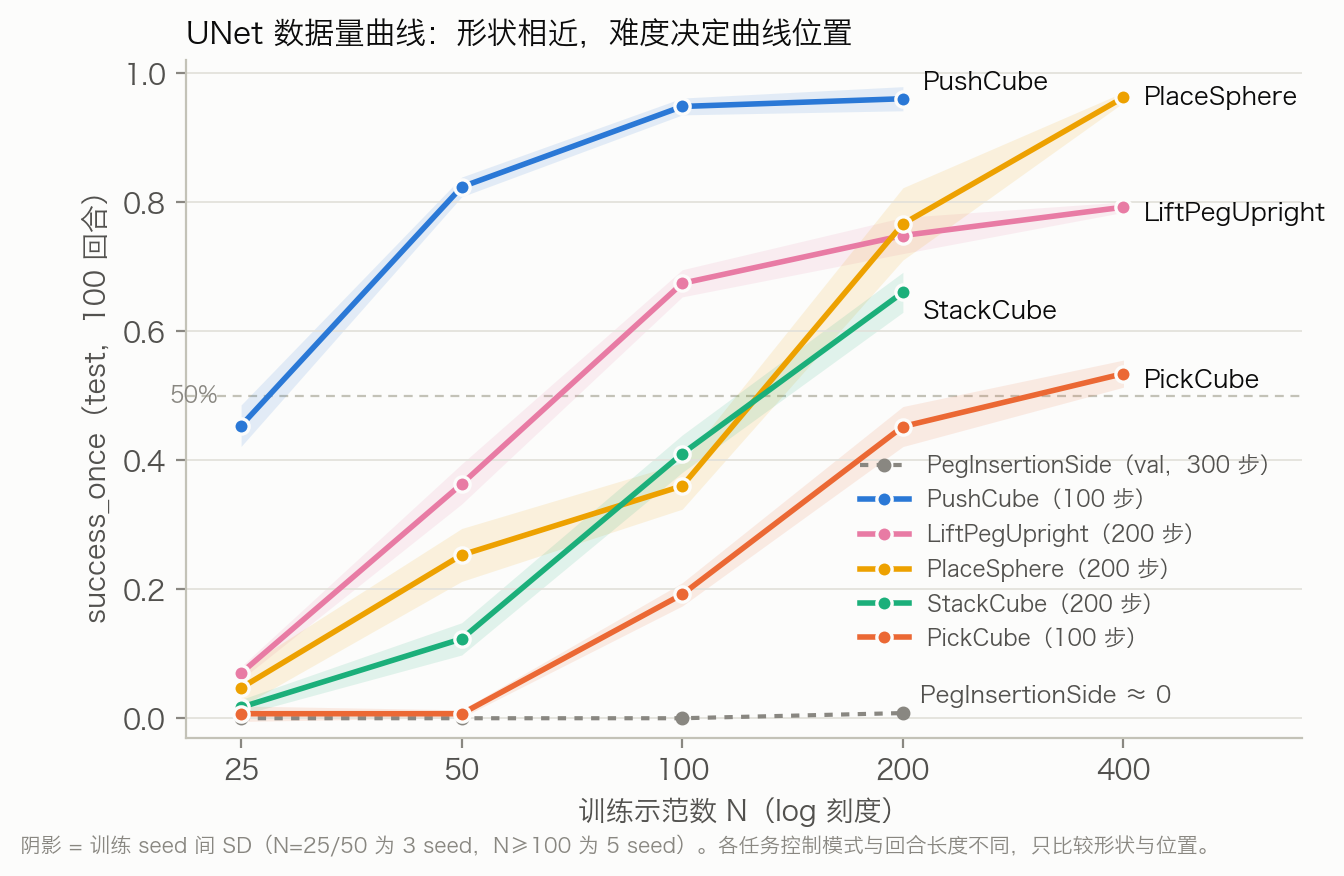
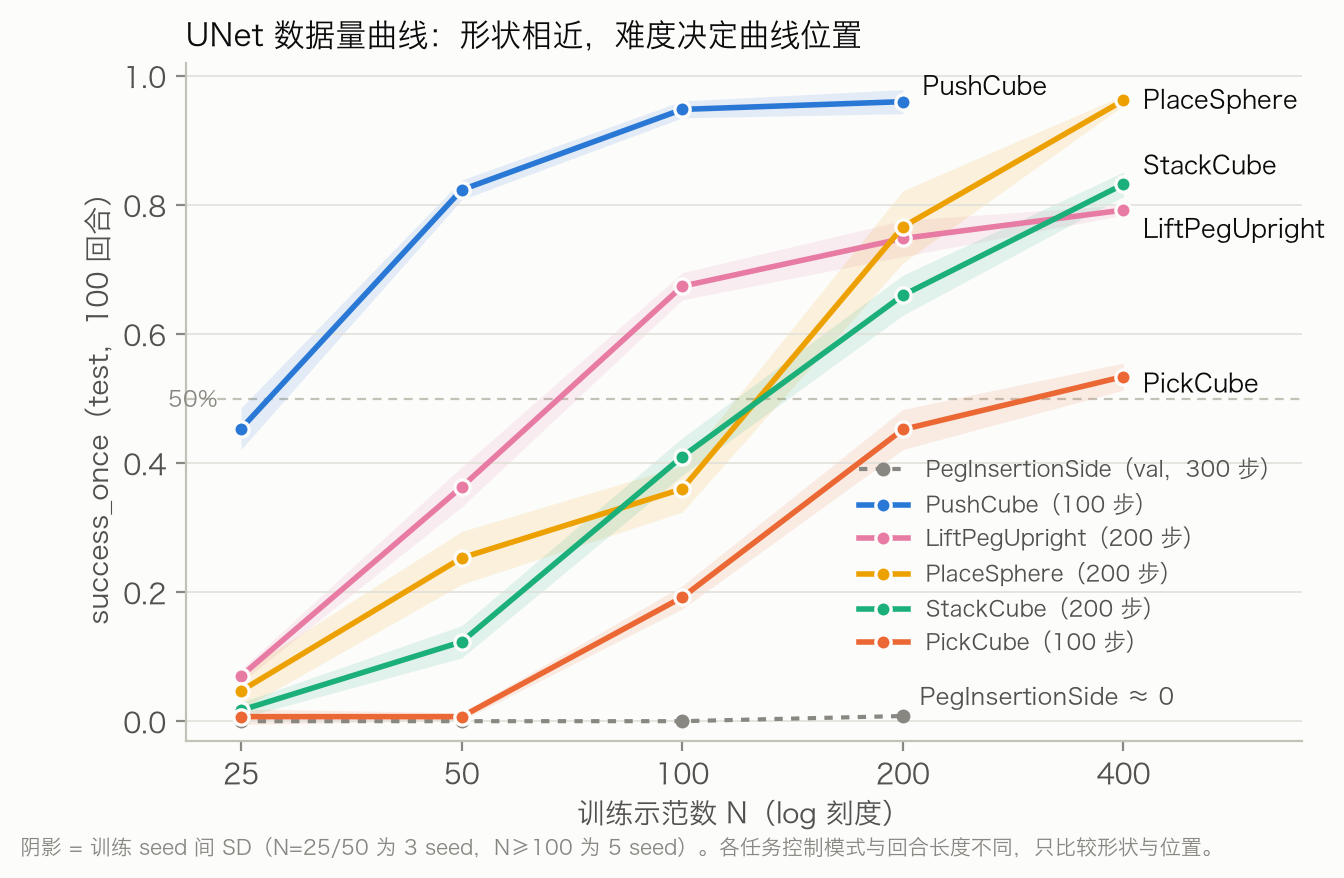
docs(results): add StackCube N=400 to the cross-task summary
StackCube's N=400 run (report_stackcube_scaling.md v2) reaches
0.832 ± 0.019; 200→400 is +0.172 [+0.108, +0.236], still significant.
Update the data-size table, the shape discussion and the figure.

diff --git a/scripts/plot_cross_task.py b/scripts/plot_cross_task.py
@@ -79,7 +79,8 @@ DATA_SIZE = {
     },
     "LiftPegUpright": {25: (0.070, 0.010), 50: (0.363, 0.031), 100: (0.674, 0.021),
                        200: (0.748, 0.028), 400: (0.792, 0.008)},
-    "StackCube": {25: (0.017, 0.012), 50: (0.123, 0.025), 100: (0.410, 0.029), 200: (0.660, 0.031)},
+    "StackCube": {25: (0.017, 0.012), 50: (0.123, 0.025), 100: (0.410, 0.029), 200: (0.660, 0.031),
+                  400: (0.832, 0.019)},
     "PlaceSphere": {25: (0.047, 0.029), 50: (0.253, 0.041), 100: (0.360, 0.036), 200: (0.766, 0.056),
                     400: (0.962, 0.008)},
     "PickCube": {25: (0.007, 0.012), 50: (0.007, 0.006), 100: (0.192, 0.018),
@@ -164,7 +165,7 @@ def fig_datasize(out: Path):
 
     # Direct labels at line ends, nudged apart where they would collide.
     ends = {t: (max(DATA_SIZE[t]), DATA_SIZE[t][max(DATA_SIZE[t])][0]) for t in DATA_SIZE}
-    nudge = {"PushCube": 0.025, "StackCube": -0.03, "PlaceSphere": 0.0, "LiftPegUpright": -0.01, "PickCube": -0.01}
+    nudge = {"PushCube": 0.025, "StackCube": 0.03, "PlaceSphere": 0.0, "LiftPegUpright": -0.03, "PickCube": -0.01}
     for t, (n, p) in ends.items():
         ax.annotate(t, (n, p + nudge[t]), xytext=(7, 0), textcoords="offset points",
                     color=INK, fontsize=9, va="center")

diff --git a/docs/results-summary.zh-CN.md b/docs/results-summary.zh-CN.md
@@ -1,6 +1,6 @@
 # 全组结果汇总（预处理稿）
 
-更新：2026-10-05。来源：`results/task1.md`、`task2_data.md`、`task2_backbone.md`、`task3.md`、`task6.md`、`task6_backbone`（组员报告），
+更新：2026-10-07（StackCube N=400 取自 7606C `report/report_stackcube_scaling.md` v2）。来源：`results/task1.md`、`task2_data.md`、`task2_backbone.md`、`task3.md`、`task6.md`、`task6_backbone`（组员报告），
 Task 5 取自本地 [experiment-progress](experiment-progress.zh-CN.md) §6、§9、§10、§12–§15 和 `results/takeover-correction/decision.json`。
 共同口径：RGB Diffusion Policy，100k optimizer steps，`final.pt`，测试种子 10000–10099（100 回合），
 主指标 `success_once`，表中为 seed 间均值 ± SD。
@@ -10,7 +10,7 @@ Task 5 取自本地 [experiment-progress](experiment-progress.zh-CN.md) §6、§
 | 编号 | 原计划任务 | 实际任务 | 控制 / 动作维 | 评估步数 | 数据量（轨道 A） | 主干（轨道 B） | 拓展 |
 | --- | --- | --- | --- | ---: | --- | --- | --- |
 | Task 1 | PickCube | PickCube | ee_delta_pos / 4 | 100 | ✅ 25–400 | ✅ | — |
-| Task 2 | StackCube | StackCube | ee_delta_pos / 4 | 200 | ✅ 25–200（400 未跑） | ✅ | — |
+| Task 2 | StackCube | StackCube | ee_delta_pos / 4 | 200 | ✅ 25–400 | ✅ | — |
 | Task 3 | PushCube | PushCube（推断，报告未写任务名） | ee_delta_pos / 4 | 100 | ✅ 25–200（400 按规则不触发） | ✅ | — |
 | Task 4 | PullCube | — | — | — | ❌ 无报告 | ❌ | — |
 | Task 5 | PegInsertionSide | PegInsertionSide → **PlaceSphere** | joint_pos / 8 → ee_delta_pos / 4 | 300 → 200 | Peg ≈0（负结果）；PlaceSphere ✅ 25–400 | Peg ≈0；PlaceSphere 未做 | ✅ failure-aware + 专家接管纠正（PlaceSphere） |
@@ -21,7 +21,7 @@ Task 5 取自本地 [experiment-progress](experiment-progress.zh-CN.md) §6、§
 | 任务 | N=25 | N=50 | N=100 | N=200 | N=400 | 100→200 是否显著 |
 | --- | --- | --- | --- | --- | --- | --- |
 | PickCube | 0.007 ± 0.012 | 0.007 ± 0.006 | 0.192 ± 0.018 | 0.452 ± 0.031 | 0.534 ± 0.021 | 是，+0.260 [+0.198, +0.322] |
-| StackCube | 0.017 ± 0.012 | 0.123 ± 0.025 | 0.410 ± 0.029 | 0.660 ± 0.031 | 未跑 | 是，+0.250 [+0.182, +0.318] |
+| StackCube | 0.017 ± 0.012 | 0.123 ± 0.025 | 0.410 ± 0.029 | 0.660 ± 0.031 | 0.832 ± 0.019 | 是，+0.250 [+0.182, +0.318] |
 | PushCube | 0.45 | 0.82 | 0.95 | 0.96 | 不触发 | 否，+0.012 [−0.014, +0.038] |
 | PlaceSphere | 0.047 ± 0.029 | 0.253 ± 0.041 | 0.360 ± 0.036 | 0.766 ± 0.056 | 0.962 ± 0.008 | 未计算（点估计 +0.406） |
 | LiftPegUpright | 0.070 ± 0.010 | 0.363 ± 0.031 | 0.674 ± 0.021 | 0.748 ± 0.028 | 0.792 ± 0.008 | 未报告 |
@@ -30,7 +30,7 @@ Task 5 取自本地 [experiment-progress](experiment-progress.zh-CN.md) §6、§
 N=25/50 为 3 个训练 seed，N≥100 为 5 个。PegInsertionSide 这一行用的是 val 50 回合，与其他行口径不同。
 
 形状上分三类：PushCube 在 100 条饱和；PickCube、LiftPegUpright、PlaceSphere 到 400 条仍在涨但收益递减（PlaceSphere 400 条时 0.962，接近饱和）；
-StackCube 到 200 条仍然陡升，按预注册规则（100→200 区间不含 0 就加 400）本应补 N=400，目前是唯一没补的。
+StackCube 按预注册规则（100→200 区间不含 0 就加 400）补跑了 N=400：0.832，200→400 为 +0.172 [+0.108, +0.236]，是这条曲线上增益第一次变小的一次翻倍，但仍显著，尚未饱和。
 
 ## 3. 主干对比（N=100，`success_once`）
 
@@ -79,7 +79,7 @@ C−B **+13.8pp** [+9.3, +18.3]，C−D **+14.3pp** [+9.5, +19.0]，D−B −0.5
    - **评估步数不统一**：数据量评估用 200 步，主干评估用 400 步，checkpoint 里记录的是 50 步。训练示范长度 153–702 步（中位 169），200 步会截掉一部分长回合，400 步也盖不住最长的 702 步。建议全部统一重评为 400 步（只需评估，不用重训，每个 run 约 3–4 GPU-min）。
    - 数据量部分缺每个 seed 的数值、各 N 的 `success_at_end`（只有 N=400 的 0.784）、相邻档 bootstrap、val loss 数值、算力和 Gate B。
    - 主干部分需要确认测试种子是不是 10000–10099（报告只写了「checkpoint 配置中的 test seed 序列」），以及运行时代码是 dirty 状态时具体改了什么。
-4. **Task 2 StackCube**：主干报告缺参数量、训练和推理耗时，统计检验用的是 z 检验，没有用两层 bootstrap。数据量报告里还有若干【待补】，比如示范来源和 batch/lr（这两项其实全组统一，可以直接引用 Task 1 / Task 3 的设置）。N=400 已满足触发条件但没跑。
+4. **Task 2 StackCube**：主干报告缺参数量、训练和推理耗时，统计检验用的是 z 检验，没有用两层 bootstrap。数据量报告里还有若干【待补】，比如示范来源和 batch/lr（这两项其实全组统一，可以直接引用 Task 1 / Task 3 的设置）。N=400 已在报告 v2 中补齐（0.832 ± 0.019，5 个 seed）。
 5. **Task 5 PlaceSphere 数据量**：缺 `success_at_end`、相邻档 bootstrap 和 val loss；没有做主干对比。N=400 已补（0.962）。
 
 **口径不一致（汇总前要统一）**
@@ -133,12 +133,12 @@ PushCube 0.95 > PickCube 0.906 > LiftPegUpright 0.714 > StackCube 0.418 > PegIns
 | PushCube | ≈27 | 已饱和 |
 | LiftPegUpright | ≈68 | 收益递减 |
 | PlaceSphere | ≈127 | 仍在陡升；400 条时 0.962，接近饱和 |
-| StackCube | ≈128 | 仍在陡升 |
+| StackCube | ≈128 | 到 400 仍在涨（0.832） |
 | PickCube（UNet） | ≈300 | 收益递减（受 UNet 过拟合影响） |
 | PegInsertionSide | 未达到 | ≈0 |
 
 在 log N 坐标下，几条曲线大致都是 S 形，只是左右平移。「100 条够用」这个说法只对简单任务成立；
-StackCube 和 PlaceSphere 在 200 条时还处于最陡的一段。PlaceSphere 已补 N=400，确认是再涨一段后接近饱和；StackCube 的 N=400 仍缺。
+StackCube 和 PlaceSphere 在 200 条时还处于最陡的一段。PlaceSphere 已补 N=400，确认是再涨一段后接近饱和；StackCube 补跑 N=400 后为 0.832，增益变小但仍显著，尚未饱和。
 
 ### 7.3 主干：加入 LiftPegUpright 后，MLP 的趋势更清楚，Transformer 的趋势变弱
 
